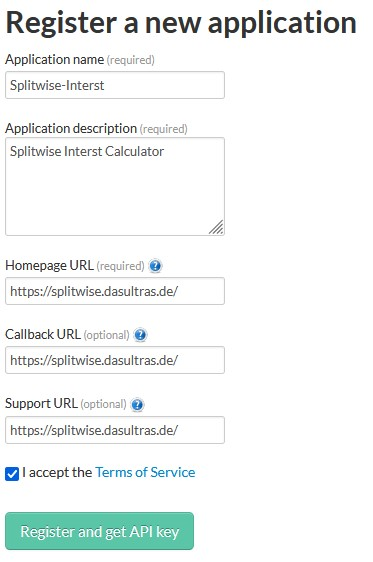
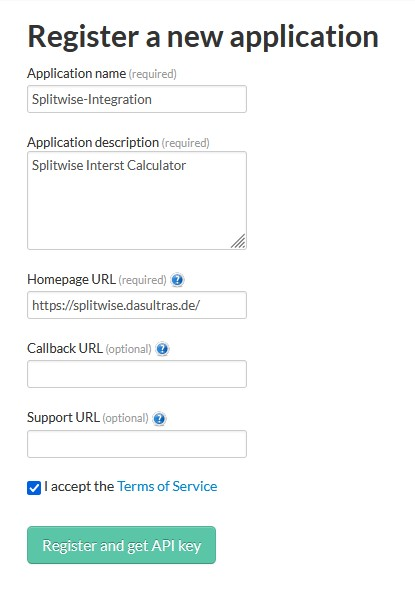
EDIT: Described all steps without pictures

diff --git a/app/settings/splitwise/page.tsx b/app/settings/splitwise/page.tsx
@@ -29,28 +29,14 @@ export default function SplitwiseSettings() {
                 const data = await response.json();
                 setConsumerKey(data.consumerKey);
                 setConsumerSecret(data.consumerSecret);
-            } else
+            } else {
                 setMessage("Error while data fetching: " + response.statusText);
+                setTimeout(() => setMessage(""), 5000);
+            }
         };
 
         fetchSplitwiseCredentials().then(() => setLoading(false));
     }, []);
-
-    // clear message after 10 seconds
-    useEffect(() => {
-        let timer: ReturnType<typeof setTimeout>;
-        // Wenn 'message' einen Wert hat, setzen Sie einen Timer, um es zu löschen
-        if (message) {
-            timer = setTimeout(() => {
-                setMessage(''); // Setzen Sie die Nachricht nach 5 Sekunden zurück
-            }, 10000);
-        }
-
-        // Cleanup Funktion, um sicherzustellen, dass der Timer gelöscht wird, wenn die Komponente unmontiert wird
-        return () => {
-            clearTimeout(timer);
-        };
-    }, [message]);
 
     const handleSubmit = async (event: React.FormEvent<HTMLFormElement>) => {
         event.preventDefault();
@@ -73,14 +59,14 @@ export default function SplitwiseSettings() {
             const data = await response.json();
             setMessage("Error while saving: " + data.message || response.statusText);
         }
+        setTimeout(() => setMessage(""), 5000);
 
         setLoading(false);
     }
 
     return (
         <div className="m-5 flex w-full flex-col items-center">
-            <h1 className="text-center">Splitwise Credentials</h1>
-            <hr className="my-3" />
+            <h1 className="text-center mb-5">Splitwise Credentials</h1>
 
             <form onSubmit={handleSubmit} className="w-full sm:w-[22rem] lg:w-full">
                 <div className="w-full lg:flex lg:justify-center">
@@ -123,41 +109,46 @@ export default function SplitwiseSettings() {
                 <h2 className="mb-3 text-center">
                     <a className="a_link" href="https://secure.splitwise.com/oauth_clients" target="_blank" rel="noopener">Where to find this Credentials?</a>
                 </h2>
-                <div className="flex">
-                    <ol type="1" className="list-inside list-decimal">
-                        <li>
-                            Login at <a className="a_link" href="https://www.splitwise.com/login" target="_blank" rel="noopener">Splitwise.com</a>
-                        </li>
-                        <li>
-                            Open <a className="a_link" href="https://secure.splitwise.com/apps" target="_blank" rel="noopener">Your apps</a> by
-                            <ol type="a" className="ml-5 list-inside list-[lower-alpha]">
-                                <li>selecting the profile icon at the top right corner</li>
-                                <li>select the point <a className="a_link" href="https://secure.splitwise.com/account/settings" target="_blank" rel="noopener">Your account</a></li>
-                                <li>select the button <a className="a_link" href="https://secure.splitwise.com/apps" target="_blank" rel="noopener">Your apps</a> under Privacy & Security</li>
-                            </ol>
-                        </li>
-                        <li>
-                            Create a new app by clicking the button <a className="a_link" href="https://secure.splitwise.com/apps/new" target="_blank" rel="noopener">Register your application</a>
-                        </li>
-                        <li>
-                            Insert the data as shown in the photo
-                            <ul className="ml-5">
-                                <li>
-                                    <b>Application name:</b> <CopyButton text="Splitwise-Integration" />
-                                </li>
-                                <li>
-                                    <b>Application description:</b> <CopyButton text="Splitwise Interst Calculator" />
-                                </li>
-                                <li>
-                                    <b>Homepage URL:</b> <CopyButton text="https://splitwise.dasultras.de/" />
-                                </li>
-                            </ul>
-                        </li>
-                    </ol>
-
-                    <Image src="/screenshots/splitwise/register_new_app-form.jpg" width={350} height={50} alt="register_new_app-form" />
-                </div>
+                <p className="mb-3 text-center">
+                    <a className="a_link" href="https://secure.splitwise.com/apps/new" target="_blank" rel="noopener">Register an application</a> in your <a className="a_link" href="https://splitwise.com" target="_blank" rel="noopener">Splitwise</a> account.
+                    <br />
+                    Steps one and two are <b>optional</b>.
+                </p>
+                <ol type="1" className="list-inside list-decimal mr-5 space-y-5">
+                    <li>
+                        Login to <a className="a_link" href="https://www.splitwise.com/login" target="_blank" rel="noopener">Splitwise.com</a>
+                    </li>
+                    <li>
+                        Open the <a className="a_link" href="https://secure.splitwise.com/apps" target="_blank" rel="noopener">&quot;Your apps&quot;</a> by
+                        <ol type="a" className="ml-5 list-inside list-[lower-alpha]">
+                            <li>selecting the profile icon at the top right corner</li>
+                            <li>select the point <a className="a_link" href="https://secure.splitwise.com/account/settings" target="_blank" rel="noopener">&quot;Your account&quot;</a></li>
+                            <li>select the button <a className="a_link" href="https://secure.splitwise.com/apps" target="_blank" rel="noopener">&quot;Your apps&quot;</a> under Privacy & Security</li>
+                        </ol>
+                    </li>
+                    <li>
+                        Create a new app by clicking the button <a className="a_link" href="https://secure.splitwise.com/apps/new" target="_blank" rel="noopener">&quot;Register your application&quot;</a>
+                    </li>
+                    <li>
+                        Insert the data<br />
+                        and commit by clicking on <b>Register</b> Button.
+                        <ul className="ml-5">
+                            <li>
+                                <b>Application name:</b> <CopyButton text="Splitwise-Integration" />
+                            </li>
+                            <li>
+                                <b>Application description:</b> <CopyButton text="Splitwise Interst Calculator" />
+                            </li>
+                            <li>
+                                <b>Homepage URL:</b> <CopyButton text="https://splitwise.dasultras.de/" />
+                            </li>
+                        </ul>
+                    </li>
+                    <li>
+                        Copy the <b>Consumer Key</b> and <b>Consumer Secret</b> into the Formular at the top.
+                    </li>
+                </ol>
             </section>
         </div>
-    )
+    );
 }
